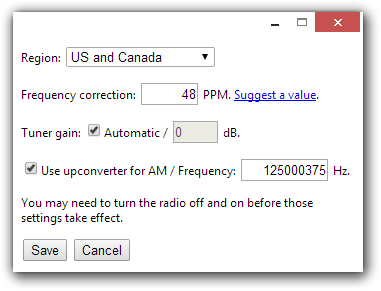
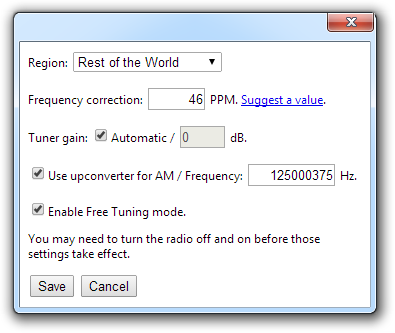
Add Free Tuning to the help text.

Changed region(s): [[0.0289, 0.0309, 0.9816, 0.9588]]

diff --git a/extension/help.html b/extension/help.html
@@ -25,56 +25,97 @@ body {
   top: 0;
   bottom: 0;
   overflow-y: scroll;
+  font-size: 14pt;
+}
+
+h1 {
+  clear: both;
+}
+
+.image {
+  float: left;
+  margin: 1em 2em 1em 0;
 }
 </style>
 </head>
 <body>
-<h1>Using Radio Receiver</h1>
+<h1>Radio Receiver help</h1>
 
-<p style="text-align:center"><img src="help-iface.png" width="615" height="350" title="Radio Receiver main interface"></p>
+<p>Radio Receiver is a Chrome application to listen to radio signals on your computer using a USB digital TV tuner. You can <a href="#standard">use it as a regular AM/FM radio</a>, or you can <a href="#freetuning">use it in Free Tuning mode</a> to listen to all kinds of radio signals, like amateur radio, marine radio, aviation radio, public safety radio, or short wave radio (using an upconverter).</p>
+
+<p>You can <a href="#settings">use the settings window</a> to set Radio Receiver up for your country's radio bands, configure an upconverter, set custom tuner gain, adjust your tuner's oscillators, etc.</p>
+
+<p>Radio Receiver also has a lot of <a href="#shortcuts">keyboard shortcuts</a> so you don't even need to use a mouse!
+
+<h1 id="standard">Using Radio Receiver</h1>
+
+<div class="image"><img src="help-iface.png" width="615" height="350" title="Radio Receiver main interface"></div>
 
 <h2>Start and stop</h2>
-<p>Press the "Power On" button (<b>1</b>) to start playing the radio. You'll see that the label changes to "Power Off"; if you press it again, the radio will stop.</p>
+<p>Press the &ldquo;Power On&rdquo; button (<b>1</b>) to start playing the radio. You'll see that the label changes to &ldquo;Power Off&rdquo;; if you press it again, the radio will stop.</p>
 
 <h2>Changing frequency and band</h2>
 <p>You can change frequency in several ways:</p>
 <ul>
 <li>Click on the frequency display (<b>2</b>), type your new frequency directly, and press Enter.</li>
-<li>Use the "Freq-" and "Freq+" buttons (<b>3</b>) to change the frequency 1 step up or down.</li>
-<li>Use the "Scan-" and "Scan+" buttons (<b>4</b>) to search for a station automatically.</li>
+<li>Use the &ldquo;Freq-&rdquo; and &ldquo;Freq+&rdquo; buttons (<b>3</b>) to change the frequency 1 step up or down.</li>
+<li>Use the &ldquo;Scan-&rdquo; and &ldquo;Scan+&rdquo; buttons (<b>4</b>) to search for a station automatically.</li>
 <li>Use the mouse wheel on the frequency display.</li>
 </ul>
 <p>To change the band you are listening to, click on the band indicator (<b>5</b>). Note that, before you can listen to AM radio, you'll need to <a href="#settings">set up an upconverter in the settings window</a>.</p>
 
 <h2>Using presets</h2>
-<p>Click the "Save" button (<b>6</b>) to save the station you are listening to as a preset. Enter a name for the preset and press "Save".</p>
+<p>Click the &ldquo;Save&rdquo; button (<b>6</b>) to save the station you are listening to as a preset. Enter a name for the preset and press &ldquo;Save".</p>
 <p>To switch to a preset, click the preset selection box (<b>7</b>) and choose your new preset. The radio will switch to it immediately.</p>
-<p>To delete a preset, switch to it and press the "Remove" button (<b>8</b>).</p>
-<p>To change a preset's name, switch to it and click the "Save" button (<b>6</b>). Type the new name and press "Save".</p>
+<p>To delete a preset, switch to it and press the &ldquo;Remove&rdquo; button (<b>8</b>).</p>
+<p>To change a preset's name, switch to it and click the &ldquo;Save&rdquo; button (<b>6</b>). Type the new name and press &ldquo;Save&rdquo;.</p>
 
 <h2>Changing volume and stereo</h2>
-<p>To change the volume, click on the "loudspeaker" icon (<b>9</b>) and move the slider left and right to decrease or increase the volume. You can also use your mouse wheel on the icon to change volume directly.</p>
+<p>To change the volume, click on the &ldquo;loudspeaker&rdquo; icon (<b>9</b>) and move the slider left and right to decrease or increase the volume. You can also use your mouse wheel on the icon to change volume directly.</p>
 <p>To disable stereo click on the stereo indicator (<b>10</b>).</p>
 
 <h2>Recording from the radio</h2>
-<p>You can record what you hear on the radio into a WAV file. Just click the "Record" button (<b>11</b>) to start, and type a name for the file. You'll see that the button's label changes to "Stop"; if you press it again, the radio will stop recording.</p>
+<p>You can record what you hear on the radio into a WAV file. Just click the &ldquo;Record&rdquo; button (<b>11</b>) to start, and type a name for the file. You'll see that the button's label changes to &ldquo;Stop&rdquo;; if you press it again, the radio will stop recording.</p>
 
-<a name="settings"></a>
-<h2>Settings</h2>
-<p>You can change a lot of settings by clicking on the "wrench" icon (<b>12</b>). There you can change several settings:</p>
+<h1 id="freetuning">Tuning into other radio signals</h1>
 
-<p style="text-align:center"><img src="help-settings.png" width="381" height="291" title="Radio Receiver settings window"></p>
+<p>With Free Tuning you can use Radio Receiver to listen to all kinds of radio signals in all frequency bands your tuner can receive, such as amateur radio, marine radio, aviation radio, short wave radio (with an upconverter), etc.</p>
+
+<h2>Enabling Free Tuning</h2>
+
+<p>To be able to use Free Tuning, <a href="#settings">open the settings window</a> and click on the checkbox to enable Free Tuning mode.</p>
+
+<h2>Using Free Tuning</h2>
+
+<p>Free Tuning appears like an extra band in Radio Receiver. To enter Free Tuning, click the band indicator (<b>5</b> in the picture above) until the display changes to look like this:</p>
+
+<div class="image"><img src="help-freetuning.png" width="614" height="350" title="Radio Receiver free-tuning interface"></div>
+
+<p>Every button in Radio Receiver works in Free Tuning mode like it does elsewhere; however, you have some extra functions available.</p>
+
+<p>The frequency display (<b>1</b>) shows the current frequency in Hertz. You can change frequency by clicking on it and typing the new frequency, using the scroll wheel, and using the &ldquo;Freq-&rdquo; and &ldquo;Freq+&rdquo; buttons. You can adjust the amount by which the frequency is adjusted by changing the value of the &ldquo;Step&rdquo; field (<b>2</b>).</p>
+
+<p>To change modulation scheme, click on the &ldquo;Modulation&rdquo; field (<b>3</b>). Each time you click you toggle between the available schemes. Currently these are Wideband FM (WBFM), Narrowband FM (NBFM), and AM.</p>
+
+<p>Some modulation schemes have parameters that affect how they work; for example, NBFM has a maximum frequency deviation (Max <i>f<sub>dev</sub></i>), AM has a bandwidth, etc. You can set the value of that parameter in the corresponding field pointed to by <b>4</b>.</p>
+
+<p>If you have <a href="#settings">configured an upconverter in the settings window</a> you can enable and disable it here by clicking the &ldquo;Upconverter&rdquo; field (<b>5</b>).</p>
+
+<h1 id="settings">Settings</h1>
+<p>You can change a lot of settings by clicking on the &ldquo;wrench&rdquo; icon (<b>12</b>). There you can change several settings:</p>
+
+<div class="image"><img src="help-settings.png" width="395" height="333" title="Radio Receiver settings window"></div>
 
 <ul>
 <li><b>Region</b>: Radios use different frequencies in different parts of the world. For best results, you should select the part of the world you live in.</li>
-<li><b>Frequency correction</b>: Corrects for clock imprecision in the dongle. Most of the time you can leave it at 0 unless you know you need a different value. If you already know it, enter it here. Otherwise, you can try the "suggest a value" feature.</li>
+<li><b>Frequency correction</b>: Corrects for clock imprecision in the dongle. Most of the time you can leave it at 0 unless you know you need a different value. If you already know it, enter it here. Otherwise, you can try the &ldquo;suggest a value&rdquo; feature.</li>
 <li><b>Tuner gain</b>: Allows you to use automatic gain or set a custom fixed gain. Most people can use automatic gain.</li>
 <li><b>Use upconverter for AM</b>: Enables or disables AM radio via an upconverter.</li>
-<li><b>Upconverter frequency</b>: The frequency the upconverter shifts all signals up by.</li>
+<li><b>Upconverter frequency</b>: This is the frequency by which the upconverter shifts all the signals up.</li>
+<li><b>Enable Free Tuning mode</b>: This lets you tune into radio signals outside of the FM and Medium Wave AM band.</li>
 </ul>
 
-<a name="shortcuts"></a>
-<h1>Keyboard shortcuts</h1>
+<h1 id="shortcuts">Keyboard shortcuts</h1>
 <table>
 <tr><th>Key</th><th>Function</th></tr>
 <tr><td><tt>Space Bar</tt></td><td>Turn radio on/off</td></tr>

diff --git a/extension/settings.html b/extension/settings.html
@@ -36,10 +36,10 @@ limitations under the License.
 </select>
 </p>
 <p><label for="ppm">Frequency correction:</label> <input id="ppm" class="ppm" name="ppm" type="text" size="4"> PPM. <a id="estimatePpmLink" href="#">Suggest a value</a>.</p>
-<p><label for="gain">Tuner gain:</label> <input id="autoGain" name="autoGain" type="checkbox" title="Automatic tuner gain">Automatic</input> / <input id="gain" name="gain" type="text" size="2"> dB.
+<p><label for="gain">Tuner gain:</label> <input id="autoGain" name="autoGain" type="checkbox" title="Automatic tuner gain"><label for="autoGain">Automatic</label> / <input id="gain" name="gain" type="text" size="2"> dB.
 </p>
-<p><input id="useUpconverter" name="useUpconverter" type="checkbox" title="Enable upconverter">Use upconverter for AM</input><span id="upconverterFreqInput"> / <label for="upconverterFreq">Frequency:</label> <input id="upconverterFreq" class="upconverterFreq" name="upconverterFreq" size="9"> Hz.</span></p>
-<p><input id="enableFreeTuning" name="enableFreeTuning" type="checkbox">Enable free-tuning mode.</input></p>
+<p><input id="useUpconverter" name="useUpconverter" type="checkbox" title="Enable upconverter"><label for="useUpconverter">Use upconverter for AM</label><span id="upconverterFreqInput"> / <label for="upconverterFreq">Frequency:</label> <input id="upconverterFreq" class="upconverterFreq" name="upconverterFreq" size="9"> Hz.</span></p>
+<p><input id="enableFreeTuning" name="enableFreeTuning" type="checkbox"><label for="enableFreeTuning">Enable Free Tuning mode.</label></p>
 <p>You may need to turn the radio off and on before those settings take effect.</p>
 <button id="ok" type="submit">Save</button> <button id="cancel">Cancel</button>
 <script src="settings.js"></script>
